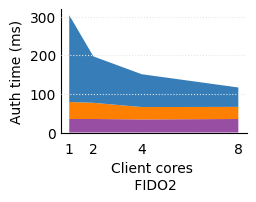
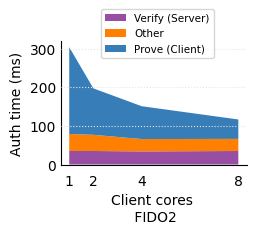
plot updates

diff --git a/scripts/plot_fido2.py b/scripts/plot_fido2.py
@@ -56,7 +56,7 @@ handles, labels = ax.get_legend_handles_labels()
 handles.reverse()
 labels.reverse()
 #ax.legend(handles, labels, bbox_to_anchor=(-0.2, 1.1, 1., .102), loc='lower left', ncol=1, borderaxespad=0., fontsize=7,labelspacing=0)
-#ax.legend(bbox_to_anchor=(-0.05, 1.2, 0.9, .102), fontsize=7.5)
+ax.legend(bbox_to_anchor=(-0.05, 1.2, 0.9, .102), fontsize=7.5)
 
 
 #ax.spines['left'].set_position("zero")

diff --git a/scripts/plot_totp.py b/scripts/plot_totp.py
@@ -44,7 +44,7 @@ handles, labels = ax.get_legend_handles_labels()
 handles.reverse()
 labels.reverse()
 #ax.legend(handles, labels, bbox_to_anchor=(-0.2, 1.1, 1., .102), loc='lower left', ncol=2, borderaxespad=0., fontsize=7,labelspacing=0)
-#ax.legend(bbox_to_anchor=(-0.05, 1.2, 0.9, .102), fontsize=7.5)
+ax.legend(bbox_to_anchor=(-0.05, 1.2, 0.9, .102), fontsize=7.5)
 
 
 #ax.spines['left'].set_position("zero")

diff --git a/scripts/plot_pw.py b/scripts/plot_pw.py
@@ -60,7 +60,7 @@ handles, labels = ax.get_legend_handles_labels()
 handles.reverse()
 labels.reverse()
 #ax.legend(handles, labels, bbox_to_anchor=(-0.2, 1.1, 1., .102), loc='lower left', ncol=1, borderaxespad=0., fontsize=7,labelspacing=0)
-#ax.legend(bbox_to_anchor=(-0.05, 1.2, 0.9, .102), fontsize=7.5)
+ax.legend(bbox_to_anchor=(-0.05, 1.2, 0.9, .102), fontsize=7.5)
 
 
 ax.spines['left'].set_position("zero")
